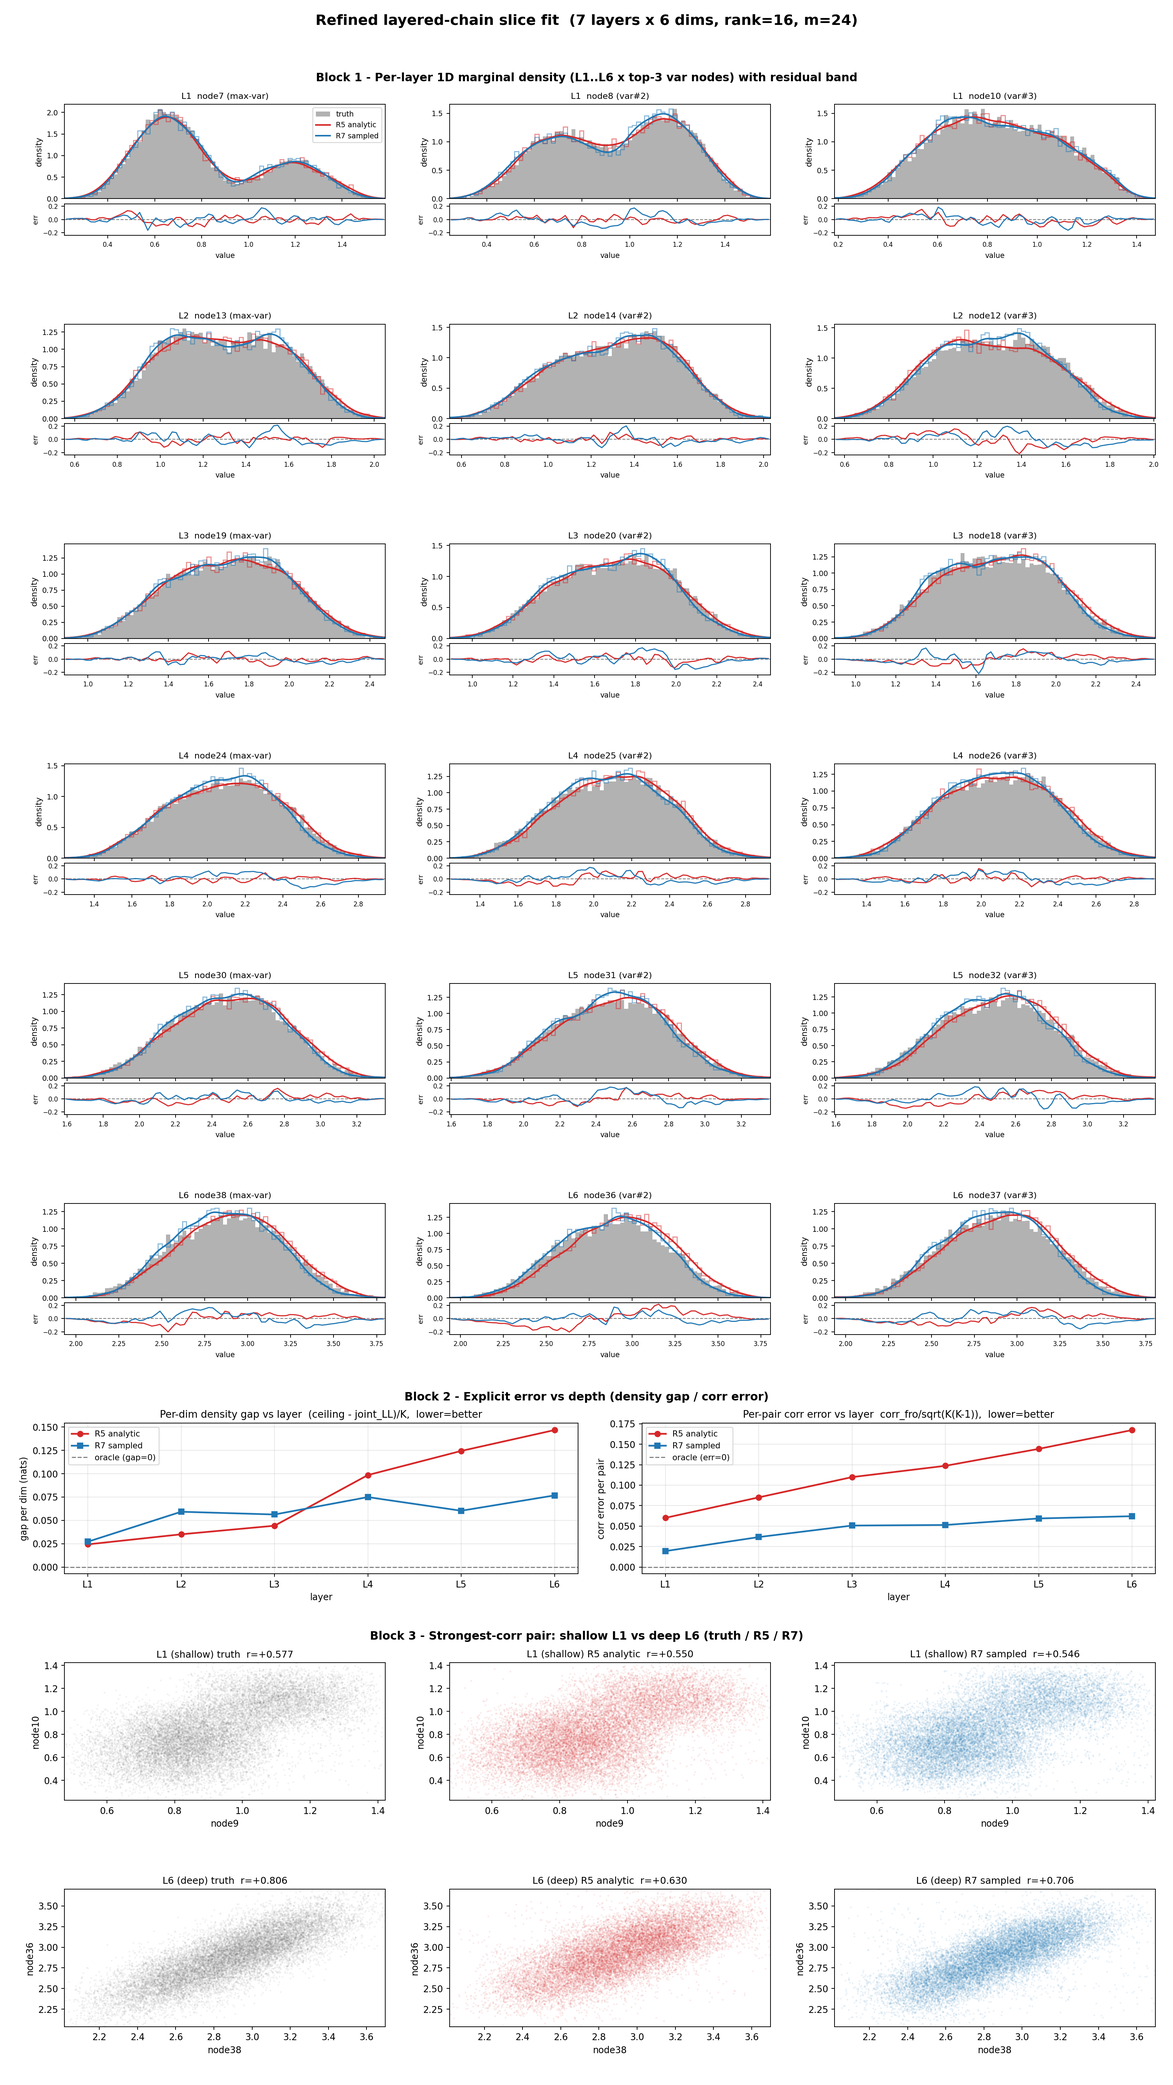
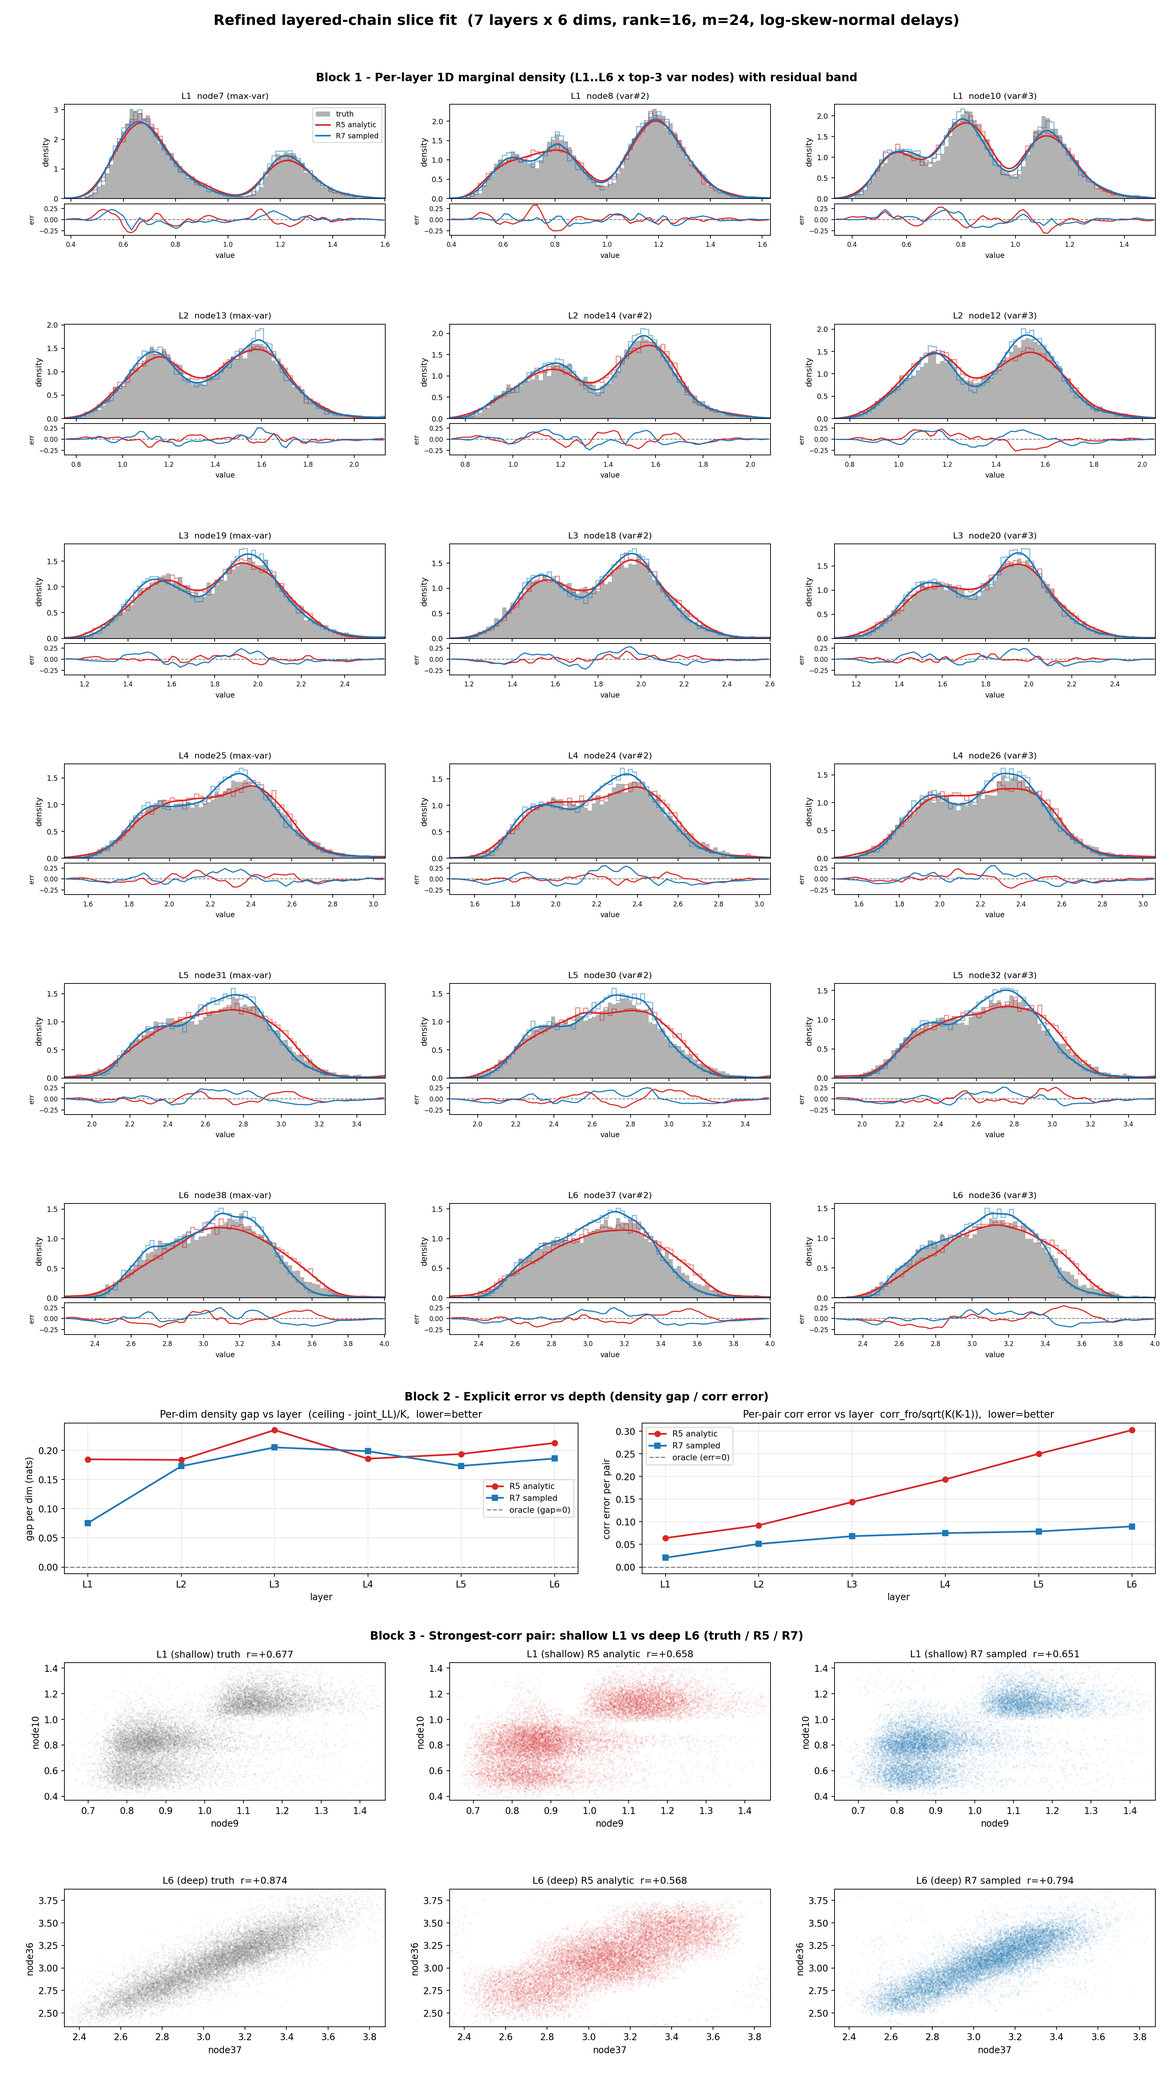
feat(delays): 层间延迟推广到任意分布(log-skew-normal), R5解析核 + R7 全打通
之前层间 merge 的 edge/node delay 硬编码均匀分布(R5解析核依赖此假设)。
本次推广到任意延迟分布,以 log-skew-normal(正支撑右偏重尾)为例落地。

核心改动:
- maxplus_pipeline.py: DelayParams 加 kind(默认uniform,向后兼容) + logskewnorm参数;
  新增 sample_edge/sample_node/edge_cdf/node_quadrature(等概率分位数求积)/edge_hi_eff/node_hi_eff。
- maxplus_cdf.py + maxplus_cdf_forest.py: 边CDF F_e 由 _uniform_cdf 改 edge_cdf(任意分布CDF);
  node delay 卷积由均匀linspace均值改 node_quadrature 加权求积(4处)。
- analytic_tree_fit.py: 解析链 s_max 支撑生长改用 edge_hi_eff/node_hi_eff 高分位数。

正确性(validate_logskew_delay.py): R5解析边缘 vs MC —— uniform 相对误差1.2%(向后兼容不变),
logskewnorm 1.6%(采样噪声内),证明推广正确。

结果(plot_slice_refined 换 log-skew-normal 延迟, 7层):
- 右偏延迟使 L1-L3 双峰更尖锐; max-plus 诱导的非树相关更强。
- R5/R7 相关差距被放大: 每对相关误差 R6层 R5=0.30 vs R7=0.09;
  深层强相关对(真值r=0.874) R5=0.568 vs R7=0.794 —— 非均匀延迟下 R7 优势更大。

diff --git a/simple_ttns_l2/maxplus_pipeline.py b/simple_ttns_l2/maxplus_pipeline.py
@@ -21,13 +21,20 @@ from dataclasses import dataclass
 from typing import Callable, Dict, Tuple
 
 import numpy as np
+from scipy.stats import skewnorm
 
 from simple_ttns_l2.dag_pipeline import MultiLayerSpec
 
 
 @dataclass(frozen=True)
 class DelayParams:
-    """各延迟分布参数（均匀分布，连续且相互独立）。"""
+    """各延迟分布参数。
+
+    `kind="uniform"`（默认，向后兼容）：edge~U[edge_lo,edge_hi], node~U[node_lo,node_hi]。
+    `kind="logskewnorm"`：edge/node ~ exp(SkewNormal)（log-skew-normal, 正支撑、右偏）。
+      Y~skewnorm(a=alpha, loc=xi, scale=omega), delay=exp(Y)。edge/node 各一套参数。
+      edge_lo/hi、node_lo/hi 在此模式下忽略（保留字段仅为兼容旧构造）。
+    """
 
     src_lo: float = 0.0
     src_hi: float = 1.0
@@ -35,17 +42,80 @@ class DelayParams:
     edge_hi: float = 0.5
     node_lo: float = 0.0
     node_hi: float = 0.5
+    kind: str = "uniform"
+    # log-skew-normal 参数(仅 kind="logskewnorm" 用): edge / node 各一套
+    e_xi: float = -2.12    # log-location ≈ log(0.12)
+    e_omega: float = 0.45  # log-scale
+    e_alpha: float = 4.0   # 偏度(>0 右偏)
+    d_xi: float = -2.12
+    d_omega: float = 0.45
+    d_alpha: float = 4.0
+
+
+# ---- 延迟分布抽象: 采样 / 边CDF / node求积 / 高分位数(供支撑生长) ----
+
+def sample_edge(params: DelayParams, rng: np.random.Generator, shape) -> np.ndarray:
+    if params.kind == "uniform":
+        return rng.uniform(params.edge_lo, params.edge_hi, size=shape)
+    y = skewnorm.rvs(params.e_alpha, loc=params.e_xi, scale=params.e_omega,
+                     size=shape, random_state=rng)
+    return np.exp(y)
+
+
+def sample_node(params: DelayParams, rng: np.random.Generator, shape) -> np.ndarray:
+    if params.kind == "uniform":
+        return rng.uniform(params.node_lo, params.node_hi, size=shape)
+    y = skewnorm.rvs(params.d_alpha, loc=params.d_xi, scale=params.d_omega,
+                     size=shape, random_state=rng)
+    return np.exp(y)
+
+
+def edge_cdf(params: DelayParams, y: np.ndarray) -> np.ndarray:
+    r"""$F_e(y)=\Pr[\text{edge delay}\le y]$，向量化。"""
+    y = np.asarray(y)
+    if params.kind == "uniform":
+        return np.clip((y - params.edge_lo) / (params.edge_hi - params.edge_lo), 0.0, 1.0)
+    out = np.zeros_like(y, dtype=float)
+    pos = y > 0
+    out[pos] = skewnorm.cdf(np.log(y[pos]), params.e_alpha, loc=params.e_xi, scale=params.e_omega)
+    return out
+
+
+def node_quadrature(params: DelayParams, n_d: int) -> Tuple[np.ndarray, np.ndarray]:
+    r"""node delay 的求积点+权重(用于卷积 $F_v(t)=\sum_i w_i F_m(t-d_i)$)。
+
+    等概率分位数求积: d_i=ppf((i+0.5)/n_d), w_i=1/n_d。均匀/log-skew-normal 统一。"""
+    probs = (np.arange(n_d) + 0.5) / n_d
+    if params.kind == "uniform":
+        d = params.node_lo + (params.node_hi - params.node_lo) * probs
+    else:
+        d = np.exp(skewnorm.ppf(probs, params.d_alpha, loc=params.d_xi, scale=params.d_omega))
+    w = np.full(n_d, 1.0 / n_d)
+    return d, w
+
+
+def edge_hi_eff(params: DelayParams, q: float = 0.995) -> float:
+    """edge delay 的高分位数(供解析网格支撑生长; 均匀=edge_hi)。"""
+    if params.kind == "uniform":
+        return params.edge_hi
+    return float(np.exp(skewnorm.ppf(q, params.e_alpha, loc=params.e_xi, scale=params.e_omega)))
+
+
+def node_hi_eff(params: DelayParams, q: float = 0.995) -> float:
+    if params.kind == "uniform":
+        return params.node_hi
+    return float(np.exp(skewnorm.ppf(q, params.d_alpha, loc=params.d_xi, scale=params.d_omega)))
 
 
 def _maxplus_step(parent_vals: np.ndarray, rng: np.random.Generator, params: DelayParams) -> np.ndarray:
     """对一个下层节点施加 max-plus：parent_vals[n,k] -> [n]。
 
-    $x_v=\\max_u(x_u+e_{uv})+d_v$，每次调用抽取新的独立 edge/node delay。
+    $x_v=\\max_u(x_u+e_{uv})+d_v$，每次调用抽取新的独立 edge/node delay(分布见 DelayParams.kind)。
     """
     n, k = parent_vals.shape
-    e = rng.uniform(params.edge_lo, params.edge_hi, size=(n, k))
+    e = sample_edge(params, rng, (n, k))
     income = parent_vals + e
-    d = rng.uniform(params.node_lo, params.node_hi, size=n)
+    d = sample_node(params, rng, n)
     return income.max(axis=1) + d
 
 

diff --git a/simple_ttns_l2/experiments/validate_logskew_delay.py b/simple_ttns_l2/experiments/validate_logskew_delay.py
@@ -1,0 +1,99 @@
+"""正确性校验:推广后的 R5 解析边缘(任意延迟分布) vs 蒙特卡洛。
+
+(1) 向后兼容:uniform 模式下 edge_cdf/node_quadrature 与旧实现一致(隐含,通过 MC 对齐验证)。
+(2) log-skew-normal:R5 解析 marginal_cdf 求导得密度,须与"采样上层+merge+直方图"吻合。
+
+构造:L0 单块 2 节点 TTNS(拟合自数据),L1 某节点两父在该块 → 用 UpperModel.marginal_cdf
+解析算其边缘,对照 MC。两种延迟分布各测一次。
+"""
+from __future__ import annotations
+
+import sys
+from pathlib import Path
+
+import jax
+import numpy as np
+from jax import numpy as jnp
+
+REPO_ROOT = Path(__file__).resolve().parents[2]
+for _p in (str(REPO_ROOT), str(REPO_ROOT / "TTNSDE")):
+    if _p in sys.path:
+        sys.path.remove(_p)
+    sys.path.insert(0, _p)
+jax.config.update("jax_enable_x64", True)
+
+from simple_ttns_l2.dag_pipeline import build_clustered_spec, sample_joint
+from simple_ttns_l2.maxplus_pipeline import (
+    DelayParams, ground_truth_samplers, sample_edge, sample_node,
+)
+from simple_ttns_l2.layered_forest import fit_layer_forest
+from simple_ttns_l2.ttns_sampler import sample_ttns
+from simple_ttns_l2.maxplus_cdf import UpperModel, marginal_cdf
+
+
+def run_one(kind: str) -> float:
+    if kind == "uniform":
+        params = DelayParams(edge_lo=0.0, edge_hi=0.3, node_lo=0.0, node_hi=0.3, kind="uniform")
+    else:
+        params = DelayParams(kind="logskewnorm",
+                             e_xi=-2.12, e_omega=0.45, e_alpha=4.0,
+                             d_xi=-2.12, d_omega=0.45, d_alpha=4.0)
+    cfg = dict(q=2, m=24, rank=8, lr=2e-3, steps=500, batch_sz=512,
+               init_noise=1e-2, train_noise=1e-3, log_every=600, early_stop_patience=8)
+    # 2 层, L0 单块 2 节点, L1 每节点 2 父
+    spec = build_clustered_spec(2, [2], fanin=2, wrap=True)
+    src, ker = ground_truth_samplers(spec, params)
+    key = jax.random.PRNGKey(0)
+    kd, key = jax.random.split(key)
+    xs = np.asarray(sample_joint(spec, src, ker, kd, 20000, clip=(-1e9, 1e9)))
+    L0 = list(spec.layers[0])
+    kf, key = jax.random.split(key)
+    forest = fit_layer_forest(jnp.asarray(xs[:, L0]), L0, cfg, kf, label="L0", mi_threshold=0.0)
+    bm = forest[0]                      # 单块
+    upper = UpperModel(bm.ttns, bm.bases, list(bm.parent), q_grid=400)
+
+    # 目标 L1 节点:取其两父都在 L0 块内的第一个
+    L1 = list(spec.layers[1])
+    node = L1[0]
+    ps = list(spec.parents(node))
+    gid2local = {g: i for i, g in enumerate(bm.global_vars)}
+    parents_local = [gid2local[p] for p in ps]
+
+    s_max = float(np.asarray(bm.bases.knots).max()) + 2.0
+    s_grid = np.linspace(0.0, s_max, 400)
+    F = marginal_cdf(upper, parents_local, s_grid, params, n_d=96)
+    dens_an = np.gradient(np.clip(F, 0, 1), s_grid)
+
+    # MC: 采上层 TTNS + merge
+    ks, key = jax.random.split(key)
+    xup = np.asarray(sample_ttns(bm.ttns, bm.bases, list(bm.parent), ks, 200000, grid_size=400))
+    rng = np.random.default_rng(0)
+    pv = np.stack([xup[:, gid2local[p]] for p in ps], axis=1)
+    e = sample_edge(params, rng, pv.shape)
+    d = sample_node(params, rng, pv.shape[0])
+    y = (pv + e).max(axis=1) + d
+    hist, edges = np.histogram(y, bins=120, range=(0, s_max), density=True)
+    centers = 0.5 * (edges[:-1] + edges[1:])
+    dens_mc = np.interp(centers, s_grid, dens_an)
+
+    # 比较(在 MC 有支撑处)
+    mask = hist > 0.02 * hist.max()
+    l1 = float(np.mean(np.abs(dens_mc[mask] - hist[mask])))
+    rel = l1 / float(hist[mask].mean())
+    print(f"[{kind}] 解析 vs MC 边缘密度: 平均|Δ|={l1:.4f}  相对={rel*100:.1f}%  "
+          f"(MC 均值峰={hist.max():.2f})", flush=True)
+    return rel
+
+
+def main():
+    print("=" * 60)
+    r_u = run_one("uniform")
+    r_l = run_one("logskewnorm")
+    print("-" * 60)
+    ok = (r_u < 0.10) and (r_l < 0.12)
+    print(f"{'PASS' if ok else 'FAIL'}: uniform 相对误差={r_u*100:.1f}%  "
+          f"logskewnorm 相对误差={r_l*100:.1f}%  (阈值 ~10-12%, 采样噪声内)")
+
+
+if __name__ == "__main__":
+    main()

diff --git a/simple_ttns_l2/maxplus_cdf.py b/simple_ttns_l2/maxplus_cdf.py
@@ -33,7 +33,7 @@ if str(TTNSDE_ROOT) not in sys.path:
 
 from ttde.ttns.ttns_opt import TTNSOpt, batch_eval_rank1_ttns  # noqa: E402
 
-from simple_ttns_l2.maxplus_pipeline import DelayParams
+from simple_ttns_l2.maxplus_pipeline import DelayParams, edge_cdf, node_quadrature
 from simple_ttns_l2.ttns_sampler import _basis_eval_dim
 
 
@@ -68,14 +68,14 @@ class UpperModel:
     def proj_single(self, u: int, s_grid: np.ndarray, params: DelayParams) -> np.ndarray:
         r"""每条父腿向量 vec_u(s)[i]=$\int F_e(s-x)b_{u,i}(x)dx$，返回 [S, basis_dim]。"""
         x = self.xgrids[u]
-        F = _uniform_cdf(s_grid[:, None] - x[None, :], params.edge_lo, params.edge_hi)  # [S,Q]
+        F = edge_cdf(params, s_grid[:, None] - x[None, :])  # [S,Q]
         return (F @ self.Bx[u]) * self.dx[u]
 
     def proj_single_pair(self, u: int, s_grid: np.ndarray, t_grid: np.ndarray, params: DelayParams) -> np.ndarray:
         r"""共享父腿向量 $\int F_e(s-x)F_e(t-x)b_i(x)dx$，返回 [S, T, basis_dim]。"""
         x = self.xgrids[u]
-        Fs = _uniform_cdf(s_grid[:, None] - x[None, :], params.edge_lo, params.edge_hi)  # [S,Q]
-        Ft = _uniform_cdf(t_grid[:, None] - x[None, :], params.edge_lo, params.edge_hi)  # [T,Q]
+        Fs = edge_cdf(params, s_grid[:, None] - x[None, :])  # [S,Q]
+        Ft = edge_cdf(params, t_grid[:, None] - x[None, :])  # [T,Q]
         # [S,T,Q] = Fs[:,None,:]*Ft[None,:,:]，再与 Bx[u] 收缩
         STQ = Fs[:, None, :] * Ft[None, :, :]
         return np.einsum("stq,qi->sti", STQ, self.Bx[u]) * self.dx[u]
@@ -89,7 +89,7 @@ class UpperModel:
         c = len(s_grids)
         prod = np.ones((1,) * c + (len(x),))  # [1,...,1, Q]
         for j, sg in enumerate(s_grids):
-            Fj = _uniform_cdf(sg[:, None] - x[None, :], params.edge_lo, params.edge_hi)  # [G_j, Q]
+            Fj = edge_cdf(params, sg[:, None] - x[None, :])  # [G_j, Q]
             shape = [1] * c + [len(x)]
             shape[j] = len(sg)
             prod = prod * Fj.reshape(shape)  # broadcast 到 [G_1,...,G_c, Q]
@@ -107,12 +107,12 @@ class UpperModel:
 
 
 def _delay_convolve_1d(F_m: np.ndarray, s_grid: np.ndarray, params: DelayParams, n_d: int = 64) -> np.ndarray:
-    """$F_v(t)=\\mathbb{E}_{d}[F_m(t-d)]$，d~U(node_lo,node_hi)。在 s_grid 上插值平均。"""
-    ds = np.linspace(params.node_lo, params.node_hi, n_d)
+    r"""$F_v(t)=\mathbb{E}_{d}[F_m(t-d)]=\sum_i w_i F_m(t-d_i)$，node delay 分布见 params。"""
+    dvals, w = node_quadrature(params, n_d)
     out = np.zeros_like(F_m)
-    for d in ds:
-        out += np.interp(s_grid - d, s_grid, F_m, left=0.0, right=1.0)
-    return out / n_d
+    for d, wi in zip(dvals, w):
+        out += wi * np.interp(s_grid - d, s_grid, F_m, left=0.0, right=1.0)
+    return out
 
 
 def marginal_cdf(
@@ -158,22 +158,20 @@ def pair_cdf(
     F_m = upper._contract(legs, batch=S * T).reshape(S, T)
     F_m = np.clip(F_m, 0.0, 1.0)
 
-    # 对 s、t 两个方向分别做独立 node delay 卷积
+    # 对 s、t 两个方向分别做独立 node delay 卷积(加权求积)
     F = np.zeros_like(F_m)
-    ds = np.linspace(params.node_lo, params.node_hi, n_d)
+    dvals, wq = node_quadrature(params, n_d)
     # 先沿 s 卷积
     tmp = np.zeros_like(F_m)
-    for d in ds:
+    for d, wi in zip(dvals, wq):
         idx = np.interp(s_grid - d, s_grid, np.arange(S), left=0, right=S - 1)
         lo = np.floor(idx).astype(int); hi = np.minimum(lo + 1, S - 1); fr = idx - lo
-        tmp += (1 - fr)[:, None] * F_m[lo, :] + fr[:, None] * F_m[hi, :]
-    tmp /= n_d
+        tmp += wi * ((1 - fr)[:, None] * F_m[lo, :] + fr[:, None] * F_m[hi, :])
     # 再沿 t 卷积
-    for d in ds:
+    for d, wi in zip(dvals, wq):
         idx = np.interp(t_grid - d, t_grid, np.arange(T), left=0, right=T - 1)
         lo = np.floor(idx).astype(int); hi = np.minimum(lo + 1, T - 1); fr = idx - lo
-        F += (1 - fr)[None, :] * tmp[:, lo] + fr[None, :] * tmp[:, hi]
-    F /= n_d
+        F += wi * ((1 - fr)[None, :] * tmp[:, lo] + fr[None, :] * tmp[:, hi])
     return F
 
 

diff --git a/simple_ttns_l2/maxplus_cdf_forest.py b/simple_ttns_l2/maxplus_cdf_forest.py
@@ -24,7 +24,7 @@ TTNSDE_ROOT = REPO_ROOT / "TTNSDE"
 if str(TTNSDE_ROOT) not in sys.path:
     sys.path.insert(0, str(TTNSDE_ROOT))
 
-from simple_ttns_l2.maxplus_pipeline import DelayParams
+from simple_ttns_l2.maxplus_pipeline import DelayParams, node_quadrature
 from simple_ttns_l2.maxplus_cdf import (
     UpperModel,
     _delay_convolve_1d,
@@ -90,33 +90,31 @@ def _pair_delay_convolve(F_m: np.ndarray, s_grid: np.ndarray, t_grid: np.ndarray
                          params: DelayParams, n_d: int = 24) -> np.ndarray:
     """对 [S,T] 的配对 CDF 沿 s、t 各做独立 node delay 卷积（与 maxplus_cdf.pair_cdf 一致）。"""
     S, T = F_m.shape
-    ds = np.linspace(params.node_lo, params.node_hi, n_d)
+    dvals, wq = node_quadrature(params, n_d)
     tmp = np.zeros_like(F_m)
-    for d in ds:
+    for d, wi in zip(dvals, wq):
         idx = np.interp(s_grid - d, s_grid, np.arange(S), left=0, right=S - 1)
         lo = np.floor(idx).astype(int); hi = np.minimum(lo + 1, S - 1); fr = idx - lo
-        tmp += (1 - fr)[:, None] * F_m[lo, :] + fr[:, None] * F_m[hi, :]
-    tmp /= n_d
+        tmp += wi * ((1 - fr)[:, None] * F_m[lo, :] + fr[:, None] * F_m[hi, :])
     F = np.zeros_like(F_m)
-    for d in ds:
+    for d, wi in zip(dvals, wq):
         idx = np.interp(t_grid - d, t_grid, np.arange(T), left=0, right=T - 1)
         lo = np.floor(idx).astype(int); hi = np.minimum(lo + 1, T - 1); fr = idx - lo
-        F += (1 - fr)[None, :] * tmp[:, lo] + fr[None, :] * tmp[:, hi]
-    return F / n_d
+        F += wi * ((1 - fr)[None, :] * tmp[:, lo] + fr[None, :] * tmp[:, hi])
+    return F
 
 
 def _delay_convolve_axis(F: np.ndarray, grid: np.ndarray, params: DelayParams, axis: int, n_d: int = 16) -> np.ndarray:
     """沿指定 axis 做 node delay 卷积 $F(\\cdot)\\leftarrow\\mathbb E_d[F(\\cdot-d)]$（与 pair 版一致，索引钳制）。"""
     G = F.shape[axis]
     Fm = np.moveaxis(F, axis, 0)  # [G, ...]
-    ds = np.linspace(params.node_lo, params.node_hi, n_d)
+    dvals, wq = node_quadrature(params, n_d)
     out = np.zeros_like(Fm)
     tail = (1,) * (Fm.ndim - 1)
-    for d in ds:
+    for d, wi in zip(dvals, wq):
         idx = np.interp(grid - d, grid, np.arange(G), left=0, right=G - 1)
         lo = np.floor(idx).astype(int); hi = np.minimum(lo + 1, G - 1); fr = idx - lo
-        out += (1 - fr).reshape((G,) + tail) * Fm[lo] + fr.reshape((G,) + tail) * Fm[hi]
-    out /= n_d
+        out += wi * ((1 - fr).reshape((G,) + tail) * Fm[lo] + fr.reshape((G,) + tail) * Fm[hi])
     return np.moveaxis(out, 0, axis)
 
 

diff --git a/simple_ttns_l2/experiments/plot_slice_refined.py b/simple_ttns_l2/experiments/plot_slice_refined.py
@@ -54,9 +54,12 @@ C_R5 = "#d62728"      # red   (analytic chain)
 C_R7 = "#1f77b4"      # blue  (sampled chain)
 
 # 更深、每层更小,省内存。7 层 × 6 维 = 42 节点,下游 L1..L6。
+# 层间延迟改 log-skew-normal(正支撑、右偏重尾),非均匀。
 CFG = dict(
     n_layers=7, clusters=[3, 3], fanin=2,
-    delay=dict(src_lo=0.0, src_hi=1.0, edge_lo=0.0, edge_hi=0.3, node_lo=0.0, node_hi=0.3),
+    delay=dict(src_lo=0.0, src_hi=1.0, kind="logskewnorm",
+               e_xi=-2.12, e_omega=0.45, e_alpha=4.0,
+               d_xi=-2.12, d_omega=0.45, d_alpha=4.0),
     n_total=12000, n_sample=6000, n_fit=12000, q=2, m=24, rank=16, src_sigma=0.03,
     lr=2e-3, steps=500, batch_sz=512, init_noise=1e-2, train_noise=1e-3,
     log_every=250, early_stop_patience=8, mi_threshold=0.02, seed=0,
@@ -228,7 +231,7 @@ def main():
 
     # 分块标题(锚到每块左上子图上方,避免与子图重叠)
     fig.text(0.5, 0.988, "Refined layered-chain slice fit  "
-             f"(7 layers x 6 dims, rank={cfg['rank']}, m={cfg['m']})",
+             f"(7 layers x 6 dims, rank={cfg['rank']}, m={cfg['m']}, log-skew-normal delays)",
              ha="center", fontsize=16, weight="bold")
     headers = {
         1: "Block 1 - Per-layer 1D marginal density (L1..L6 x top-3 var nodes) with residual band",

diff --git a/simple_ttns_l2/analytic_tree_fit.py b/simple_ttns_l2/analytic_tree_fit.py
@@ -45,7 +45,7 @@ from ttde.ttns.ttns_opt import (  # noqa: E402
 from simple_ttns_l2.train_l2 import build_bases, init_ttns_from_rank1  # noqa: E402
 from simple_ttns_l2.objective import integral_q_ttns, normalize_ttns_by_integral  # noqa: E402
 from simple_ttns_l2.ttns_sampler import _basis_eval_dim  # noqa: E402
-from simple_ttns_l2.maxplus_pipeline import DelayParams, propagate_layer  # noqa: E402
+from simple_ttns_l2.maxplus_pipeline import DelayParams, propagate_layer, edge_hi_eff, node_hi_eff  # noqa: E402
 from simple_ttns_l2.chow_liu import estimate_chow_liu_tree  # noqa: E402
 from simple_ttns_l2.maxplus_cdf import moments_from_marginal, cov_hoeffding  # noqa: E402
 from simple_ttns_l2.maxplus_cdf_forest import (  # noqa: E402
@@ -536,7 +536,7 @@ def fit_analytic_chain(
     forests: Dict[int, list] = {0: forest0}
     s_max = s_max0
     for li in range(1, len(spec.layers)):
-        s_max = s_max + (params.edge_hi + params.node_hi) + 0.3
+        s_max = s_max + (edge_hi_eff(params) + node_hi_eff(params)) + 0.3
         upper = UpperForest(forests[li - 1], q_grid=400)
         k_l, key = jax.random.split(key)
         forests[li] = fit_next_layer_forest(
